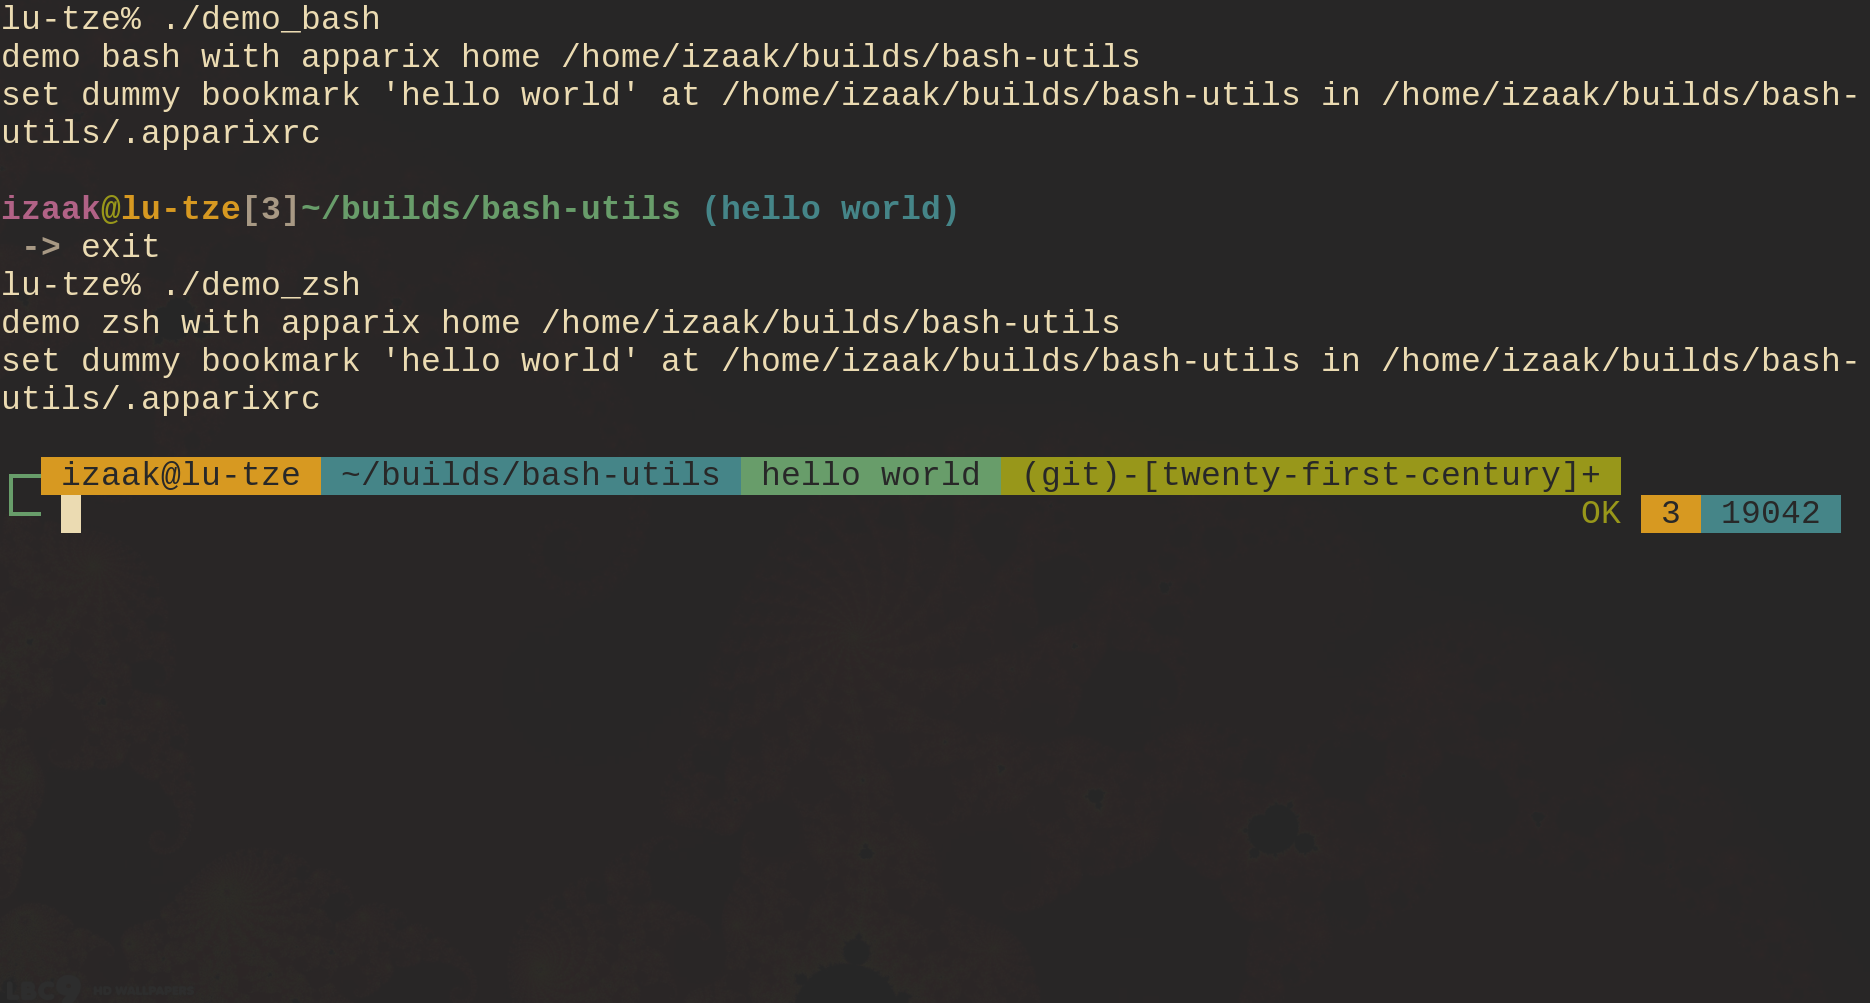
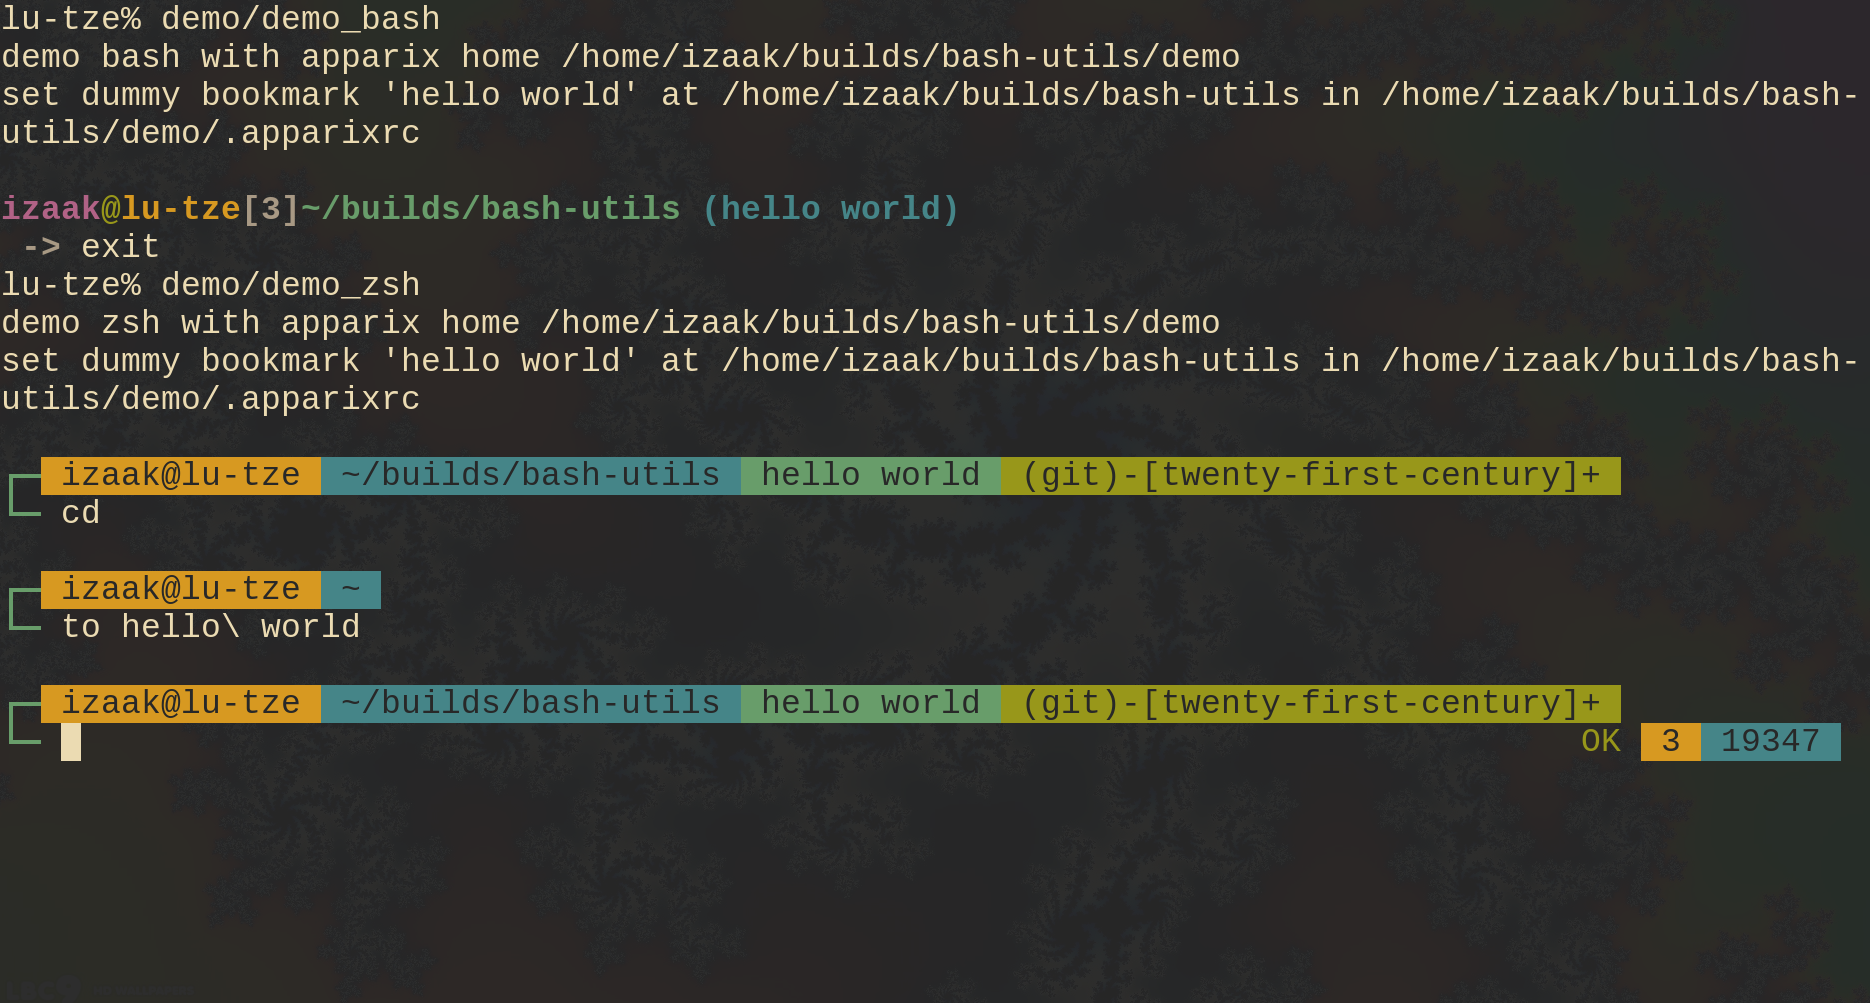
Shuffle files around

diff --git a/README.md b/README.md
@@ -26,10 +26,10 @@ some truncation, which you can fix by removing the spurious lines from
 
 There is also a reference prompt that can talk to apparix, if you've got it set
 up, in `prompt.bash`. A minimal demo `bashrc` to call both is provided. You can
-try it out by running `./demo_bash`.
+try it out by running `demo/demo_bash`.
 
-Similarly, I have included a `prompt.zsh`, `zshrc` and `./demo_zsh`. See below
-screenshot for what they should hopefully look like.
+Similarly, I have included a `prompt.zsh`, `zshrc` and `demo/demo_zsh`. See
+below screenshot for what they should hopefully look like.
 
 A recommendation for Zsh users that fills a similar niche is the Zsh native
 `hash -d` command (`man zshall`), which provides directory hashes with a prefix
